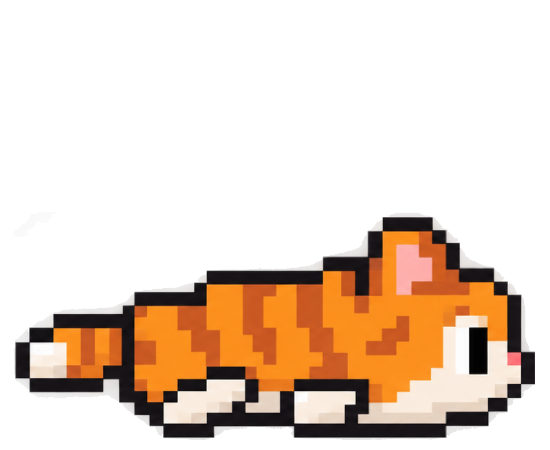
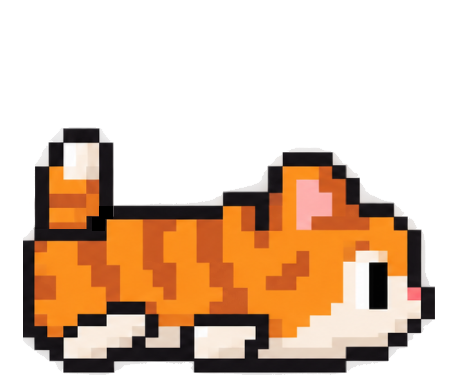
Kitty leeway, sparkles, image buttons, panel slide, splash builders

diff --git a/src/ui/screens/splash/hint.rs b/src/ui/screens/splash/hint.rs
@@ -30,12 +30,21 @@ pub(crate) fn build_hint() -> FramedText<State> {
 }
 
 /// Kitty toggle line above the pavement. White, no background.
+/// Kitty toggle line above the pavement. White, no background.
+/// Clicking toggles kitty mode, same as K.
 pub(crate) fn build_kitty_hint() -> Label<State> {
     let label = Label::<State>::new(LabelOptions::default());
     label
         .text("K is for kitty")
         .color(Some(Color::Ansi(theme::KITTY_HINT_TEXT)))
-        .handle("kitty_hint");
+        .handle("kitty_hint")
+        .interactive(true);
+    label.on_mouse(|_el, state, event| {
+        if matches!(event.mouse, Mouse::Click) && Platform::output_provider().images() {
+            state.kitty = !state.kitty;
+            crate::settings::persist_now(state);
+        }
+    });
     label
 }
 

diff --git a/src/ui/elements/flappy_engine.rs b/src/ui/elements/flappy_engine.rs
@@ -32,10 +32,10 @@ pub const BIRD_X: isize = 20;
 /// Kitty bump leeway: forgiven rows on the top and bottom of the cat.
 /// Note: the cat image sits in a bigger rectangle than the bird,
 /// so the leeway keeps a "leveled playing field" between them.
-const KITTY_LEEWAY_TOP: isize = 2;
+const KITTY_LEEWAY_TOP: isize = 0;
 const KITTY_LEEWAY_BOTTOM: isize = 1;
 const KITTY_LEEWAY_FRONT: isize = 0;
-const KITTY_LEEWAY_BACK: isize = 5;
+const KITTY_LEEWAY_BACK: isize = 4;
 /// Pavement top row in game coordinates: the lethal ground surface.
 const GROUND_SURFACE: f32 = 21.0;
 

diff --git a/src/ui/elements/flying_cat.rs b/src/ui/elements/flying_cat.rs
@@ -2,8 +2,8 @@ use incredible::*;
 use incredible_elements::{Image, ImageData};
 use incredible_macros_decl::element;
 
-pub const FLYING_CAT_WIDTH_CELLS: usize = 10;
-pub const FLYING_CAT_HEIGHT_CELLS: usize = 4;
+pub const FLYING_CAT_WIDTH_CELLS: usize = 9;
+pub const FLYING_CAT_HEIGHT_CELLS: usize = 3;
 const FLYING_CAT_UP_PNG: &[u8] = include_bytes!("../../../assets/flying_cat_up.png");
 const FLYING_CAT_DOWN_PNG: &[u8] = include_bytes!("../../../assets/flying_cat_down.png");
 const READY_CAT_PNG: &[u8] = include_bytes!("../../../assets/cat.png");

diff --git a/src/ui/elements/dead_cat.rs b/src/ui/elements/dead_cat.rs
@@ -2,8 +2,8 @@ use incredible::*;
 use incredible_elements::{Image, ImageData};
 use incredible_macros_decl::element;
 
-pub const DEAD_CAT_WIDTH_CELLS: usize = 10;
-pub const DEAD_CAT_HEIGHT_CELLS: usize = 4;
+pub const DEAD_CAT_WIDTH_CELLS: usize = 9;
+pub const DEAD_CAT_HEIGHT_CELLS: usize = 3;
 const DEAD_CAT_PNG: &[u8] = include_bytes!("../../../assets/dead_cat.png");
 
 #[derive(Clone, Debug)]

diff --git a/src/lib.rs b/src/lib.rs
@@ -4,6 +4,8 @@ mod ui;
 mod platform;
 #[cfg(target_arch = "wasm32")]
 mod runtime;
+#[cfg(target_arch = "wasm32")]
+mod settings;
 
 #[cfg(target_arch = "wasm32")]
 #[wasm_bindgen::prelude::wasm_bindgen]
